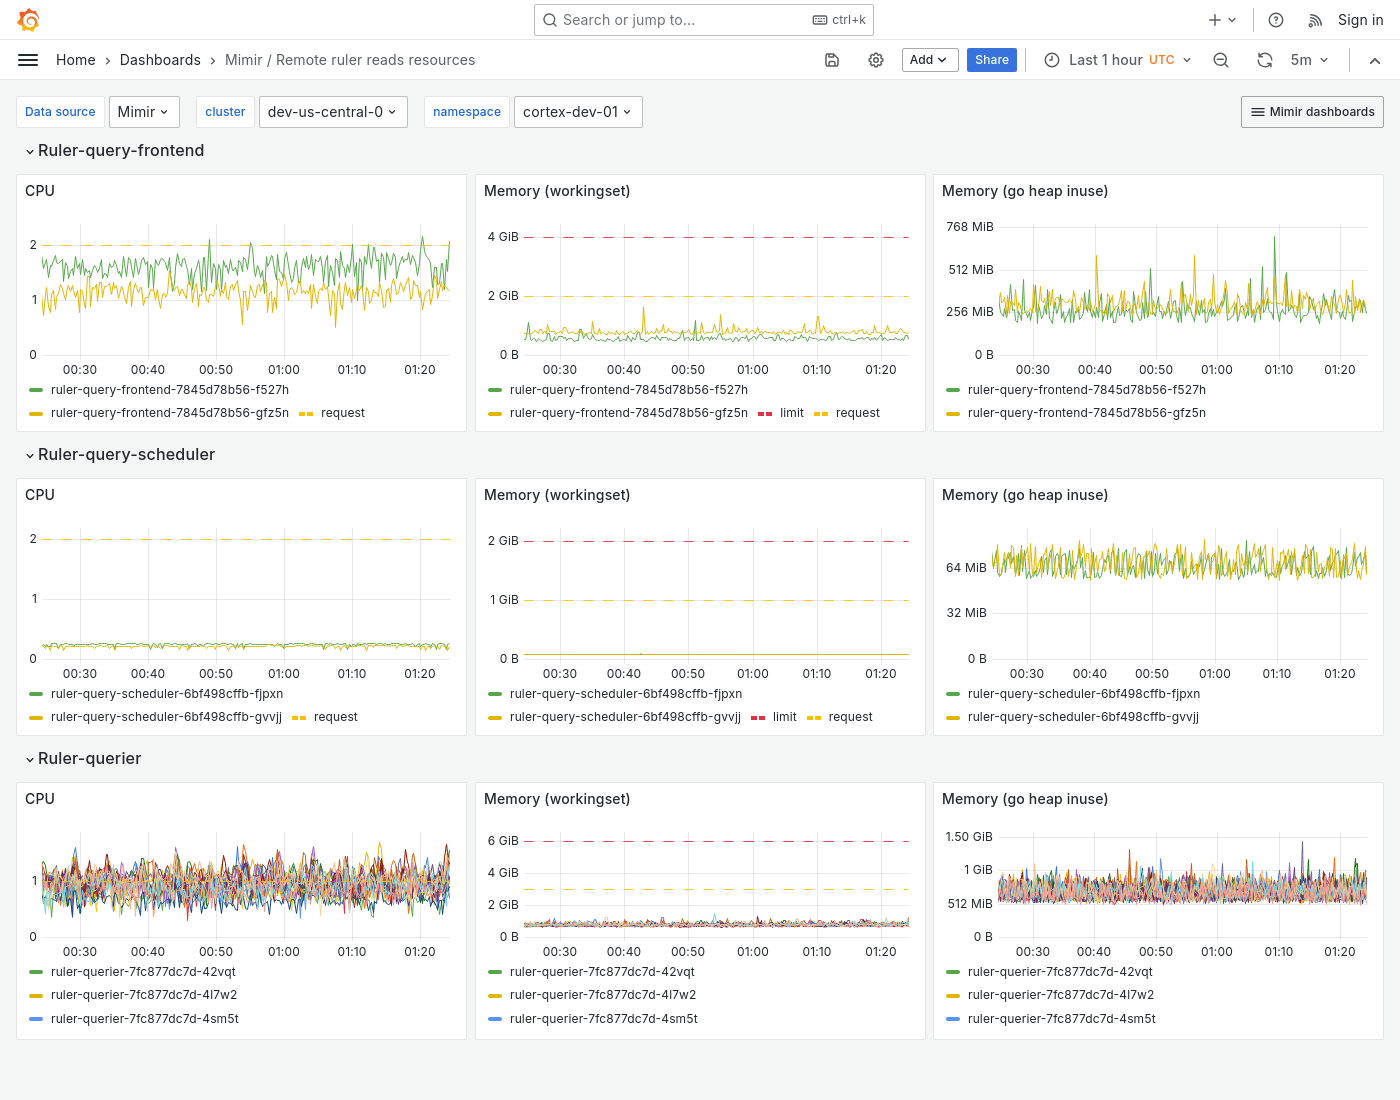
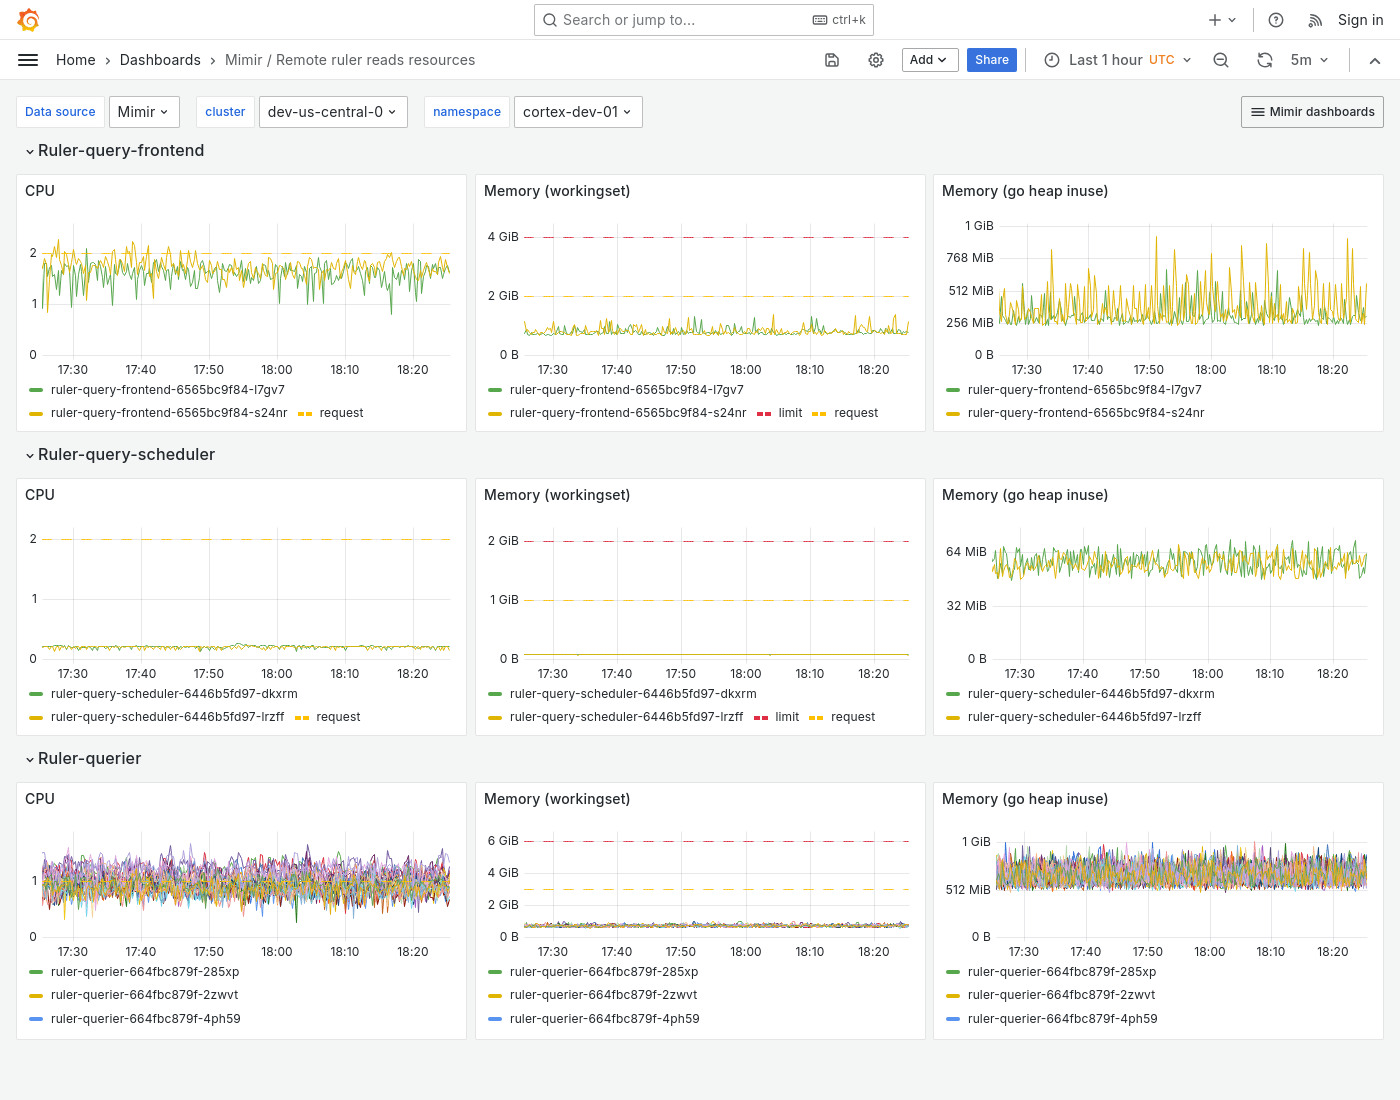
[release-2.16] 2.16 release: tidy up & cut changelog (#10931)
* docs: Fix a few inconsistencies in the CHANGELOG before 2.16 release (#10922)

* Set version 2.16-rc.0 in CHANGELOG

* mixin: Update screenshots (#10930)

Part of 2.16 release

Related #10917

---------

diff --git a/CHANGELOG.md b/CHANGELOG.md
@@ -1,6 +1,6 @@
 # Changelog
 
-## main / unreleased
+## 2.16.0-rc.0
 
 ### Grafana Mimir
 
@@ -28,7 +28,6 @@
 * [ENHANCEMENT] Ruler: Add `cortex_prometheus_rule_group_last_rule_duration_sum_seconds` metric to track the total evaluation duration of a rule group regardless of concurrency #10189
 * [ENHANCEMENT] Distributor: Add native histogram support for `electedReplicaPropagationTime` metric in ha_tracker. #10264
 * [ENHANCEMENT] Ingester: More efficient CPU/memory utilization-based read request limiting. #10325
-* [ENHANCEMENT] Dashboards: Add Query-Scheduler <-> Querier Inflight Requests row to Query Reads and Remote Ruler reads dashboards. #10290
 * [ENHANCEMENT] OTLP: In addition to the flag `-distributor.otel-created-timestamp-zero-ingestion-enabled` there is now `-distributor.otel-start-time-quiet-zero` to convert OTel start timestamps to Prometheus QuietZeroNaNs. This flag is to make the change rollout safe between Ingesters and Distributors. #10238
 * [ENHANCEMENT] Ruler: When rule concurrency is enabled for a rule group, its rules will now be reordered and run in batches based on their dependencies. This increases the number of rules that can potentially run concurrently. Note that the global and tenant-specific limits still apply #10400
 * [ENHANCEMENT] Query-frontend: include more information about read consistency in trace spans produced when using experimental ingest storage. #10412
@@ -36,7 +35,6 @@
 * [ENHANCEMENT] Ingester: add `active_series_additional_custom_trackers` configuration, in addition to the already existing `active_series_custom_trackers`. The `active_series_additional_custom_trackers` configuration allows you to configure additional custom trackers that get merged with `active_series_custom_trackers` at runtime. #10428
 * [ENHANCEMENT] Query-frontend: Allow blocking raw http requests with the `blocked_requests` configuration. Requests can be blocked based on their path, method or query parameters #10484
 * [ENHANCEMENT] Ingester: Added the following metrics exported by `PostingsForMatchers` cache: #10500 #10525
-* [ENHANCEMENT] Add support for the HTTP header `X-Filter-Queryables` which allows callers to decide which queryables should be used by the querier, useful for debugging and testing queryables in isolation. #10552 #10594
   * `cortex_ingester_tsdb_head_postings_for_matchers_cache_hits_total`
   * `cortex_ingester_tsdb_head_postings_for_matchers_cache_misses_total`
   * `cortex_ingester_tsdb_head_postings_for_matchers_cache_requests_total`
@@ -47,6 +45,7 @@
   * `cortex_ingester_tsdb_block_postings_for_matchers_cache_requests_total`
   * `cortex_ingester_tsdb_block_postings_for_matchers_cache_skips_total`
   * `cortex_ingester_tsdb_block_postings_for_matchers_cache_evictions_total`
+* [ENHANCEMENT] Add support for the HTTP header `X-Filter-Queryables` which allows callers to decide which queryables should be used by the querier, useful for debugging and testing queryables in isolation. #10552 #10594
 * [ENHANCEMENT] Compactor: Shuffle users' order in `BlocksCleaner`. Prevents bucket indexes from going an extended period without cleanup during compactor restarts. #10513
 * [ENHANCEMENT] Distributor, querier, ingester and store-gateway: Add support for `limit` parameter for label names and values requests. #10410
 * [ENHANCEMENT] Ruler: Adds support for filtering results from rule status endpoint by `file[]`, `rule_group[]` and `rule_name[]`. #10589
@@ -95,6 +94,7 @@
 * [BUGFIX] Querier: fix issue where `label_join` could incorrectly return multiple series with the same labels rather than failing with `vector cannot contain metrics with the same labelset`. https://github.com/prometheus/prometheus/pull/15975 #10826
 * [BUGFIX] Querier: fix issue where counter resets on native histograms could be incorrectly under- or over-counted when using subqueries. https://github.com/prometheus/prometheus/pull/15987 #10871
 * [BUGFIX] Ingester: fix goroutines and memory leak when experimental ingest storage enabled and a server-side error occurs during metrics ingestion. #10915
+* [BUGFIX] Alertmanager: Avoid fetching Grafana state if Grafana AM compatibility is not enabled. #10857
 
 ### Mixin
 
@@ -107,6 +107,7 @@
 * [ENHANCEMENT] Dashboards: clarify when query-frontend and query-scheduler dashboard panels are expected to show no data. #10624
 * [ENHANCEMENT] Alerts: Add warning alert `DistributorGcUsesTooMuchCpu`. #10641
 * [ENHANCEMENT] Dashboards: Add "Federation-frontend" dashboard for GEM. #10697 #10736
+* [ENHANCEMENT] Dashboards: Add Query-Scheduler <-> Querier Inflight Requests row to Query Reads and Remote Ruler reads dashboards. #10290
 * [ENHANCEMENT] Alerts: Add "Federation-frontend" alert for remote clusters returning errors. #10698
 * [BUGFIX] Dashboards: fix how we switch between classic and native histograms. #10018
 * [BUGFIX] Alerts: Ignore cache errors performing `delete` operations since these are expected to fail when keys don't exist. #10287
